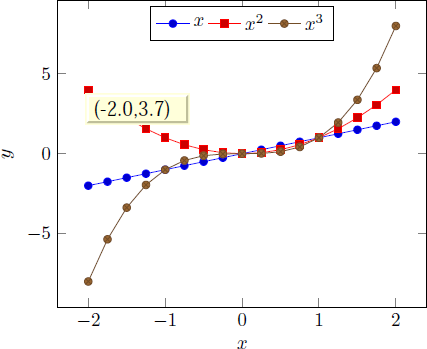
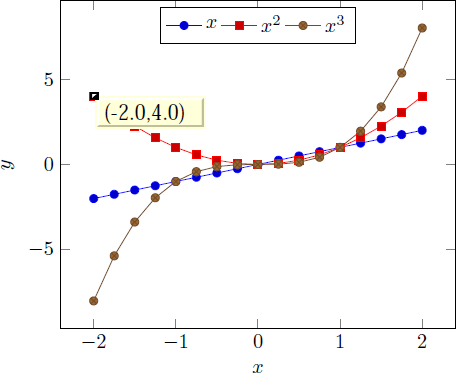
Documented the snap--to--nearest features.

diff --git a/doc/latex/pgfplots/pgfplots.libs.tex b/doc/latex/pgfplots/pgfplots.libs.tex
@@ -11,7 +11,7 @@ This section describes some libraries which come with \PGFPlots, but they are mo
 
 \subsection{Clickable Plots}
 \begin{pgfplotslibrary}{clickable}
-	A library which generates small popups whenever one clicks into a plot. The popup displays the coordinate under the mouse pointer. Furthermore, the library allows to display slopes if one holds the mouse pressed and drags it to another point in the plot.
+	A library which generates small popups whenever one clicks into a plot. The popup displays the coordinate under the mouse pointer, supporting the optional snap--to--nearest |clickable coords| feature with customizable displayed information. Furthermore, the library allows to display slopes if one holds the mouse pressed and drags it to another point in the plot.
 
 
 	It is completely sufficient to write 
@@ -50,9 +50,149 @@ This section describes some libraries which come with \PGFPlots, but they are mo
 	\paragraph{Attention:} For this document, the |clickable| library has been deactivated. You may find a different version on \url{http://sourceforge.net/projects/pgfplots}.
 	\fi
 
-	A click places an annotation at the coordinate under the mouse pointer, a snap--to--nearest feature is not available (yet?).
+\begin{pgfplotskey}{clickable coords=\marg{displayed text}}
+	Activates a snap--to--nearest feature when clicking onto plot coordinates. The \meta{displayed text} is the coordinate's $x$ and $y$ value by default (i.e.\ you write just |clickable coords| without an equal sign).
+{
+	% allow to typeset the example. I couldn't get the \catcodes
+	% correctly...
+	\pgfplotstableset{
+		/codeexample/newline=\noexpand\\,
+		row sep=\\,
+	}%
+\begin{codeexample}[]
+\begin{tikzpicture}
+	\begin{loglogaxis}[clickable coords={Level \thisrow{level} (q=\thisrow{q})}]
+	\addplot table[x=dof,y=error] {
+level  dof     error           q      
+1      4       2.50000000e-01  48        
+2      16      6.25000000e-02  25        
+3      64      1.56250000e-02  41        
+4      256     3.90625000e-03  8         
+5      1024    9.76562500e-04  22        
+6      4096    2.44140625e-04  46        
+7      16384   6.10351562e-05  40        
+8      65536   1.52587891e-05  3
+9      262144  3.81469727e-06  1
+10     1048576 9.53674316e-07  9
+	};
+		
+	\end{loglogaxis}
+\end{tikzpicture}
+\end{codeexample}
+	\noindent Now, clicking onto a data point yields `Level 7 (q=40)' 
+	whereas clicking besides a data point results in the click coordinates as before,
+	
+	\noindent\hbox to \linewidth{\hfill
+	\includegraphics[scale=0.4]{figures/pgfplotsclickable-log-snap0}\hfill
+	\includegraphics[scale=0.4]{figures/pgfplotsclickable-log-snap2}\hfill
+	\includegraphics[scale=0.4]{figures/pgfplotsclickable-log-snap1}.\hfill
+	}%
 
-	\paragraph{Requirements:}
+	Note that logarithmic slopes work as before.
+	
+	If you want the $(x,y)$ values to be displayed, use the special placeholder string `|(xy)|' inside of \meta{displayed text}. As an example, we consider again the |scatter/classes| example of page~\pageref{pgfplots:scatterclasses}:
+
+\begin{codeexample}[]
+\begin{tikzpicture}
+	\begin{axis}[%
+	clickable coords={(xy): \thisrow{label}},%
+	scatter/classes={%
+		a={mark=square*,blue},%
+		b={mark=triangle*,red},%
+		c={mark=o,draw=black}}]
+	\addplot[scatter,only marks,scatter src=explicit symbolic] table[meta=label] {
+x     y      label
+0.1   0.15   a 
+0.45  0.27   c 
+0.02  0.17   a 
+0.06  0.1    a 
+0.9   0.5    b 
+0.5   0.3    c 
+0.85  0.52   b 
+0.12  0.05   a 
+0.73  0.45   b 
+0.53  0.25   c 
+0.76  0.5    b 
+0.55  0.32   c
+	};
+	\end{axis}
+\end{tikzpicture}
+\end{codeexample}
+}
+	\noindent Here, we find popups like
+
+	\noindent\hbox to \linewidth{\hfill
+	\includegraphics[scale=0.4]{figures/pgfplotsclickable-scatter1.png}\hfill
+	\includegraphics[scale=0.4]{figures/pgfplotsclickable-scatter2.png}\hfill
+	\includegraphics[scale=0.4]{figures/pgfplotsclickable-scatter0.png}.\hfill
+	}%
+
+	The \meta{displayed text} is a simple, unformatted string displayed with \emph{javascript}. It should not contain \TeX\ commands, especially no math mode (the `|(xy)|' replacement text is formatted with |sprintf|, see below). Consider |clickable coords code| in case you'd like to preprocess data before displaying it.
+
+	Consider using |annot/snap dist=6| to increase the snap--to--nearest distance.
+
+\end{pgfplotskey}
+\begin{pgfplotskey}{clickable coords code=\marg{\TeX\ code which defines {\normalfont\ttfamily\textbackslash pgfplotsretval}}}
+	A variant of |clickable coords| which allows to prepare the displayed information before it is handed over to javascript.
+
+	The value should be \TeX\ code which defines |\pgfplotsretval| somehow. The result is used as simple, unformatted string which is associated to coordinates.
+
+	Consider using 
+	
+	\hspace{2em}|\pgfmathprintnumberto[verbatim]|\marg{number}|\pgfmathresult|
+	
+	\hspace{2em}|\edef\pgfplotsretval{Number=\pgfmathresult}|
+	
+	to provide number printing. The |\pgfmathprintnumberto[verbatim]| doesn't use math mode to format a number, and it writes its result into |\pgfmathresult|. The |\edef| means ``expanded definition'' and has the effect of expanding all macros to determine the value, in our case ``Number \meta{the value}''. The following example uses it twice to pretty--print the data:
+{
+	% allow to typeset the example. I couldn't get the \catcodes
+	% correctly...
+	\pgfplotstableset{
+		/codeexample/newline=\noexpand\\,
+		row sep=\\,
+	}%
+\begin{codeexample}[]
+\begin{tikzpicture}
+\begin{loglogaxis}[clickable coords code={%
+	\pgfmathprintnumberto[verbatim,precision=1]%
+		{\thisrow{error}}%
+		\pgfmathresult%
+	\edef\pgfplotsretval{error \pgfmathresult}%
+	% now, second part:
+	\pgfmathprintnumberto[verbatim,frac]%
+		{\thisrow{frac}}%
+		\pgfmathresult%
+	\edef\pgfplotsretval{\pgfplotsretval, % <- append
+		R=\pgfmathresult}%
+}]%
+\addplot table[x=dof,y=error] {
+level  dof     error           frac      
+1      4       2.50000000e-01  0.5        
+2      16      6.25000000e-02  0.75      
+3      64      1.56250000e-02  0.1        
+4      256     3.90625000e-03  0.2         
+5      1024    9.76562500e-04  0.5        
+6      4096    2.44140625e-04  0.8        
+7      16384   6.10351562e-05  0.125        
+8      65536   1.52587891e-05  0.725
+9      262144  3.81469727e-06  0.625
+10     1048576 9.53674316e-07  1
+};
+	
+\end{loglogaxis}
+\end{tikzpicture}
+\end{codeexample}
+	\noindent resulting in
+
+	\noindent\hbox to \linewidth{\hfill
+	\includegraphics[scale=0.4]{figures/pgfplotsclickable-logcode-snap0.png}\hfill
+	\includegraphics[scale=0.4]{figures/pgfplotsclickable-logcode-snap1.png}.\hfill
+	}%
+}
+	
+\end{pgfplotskey}
+
+	\paragraph{Requirements for the library:}
 	\begin{itemize}
 		\item The library relies on the \LaTeX\ packages |insdljs| (``Insert document level Javascript'') and |eforms| which are both part of the freely available |AcroTeX| education bundle~\cite{acrotex}\footnote{These packages rely on \LaTeX, so the library is only available for \LaTeX, not for plain \TeX\ or Con\TeX t.}. The |insdljs| package creates a temporary file with extension |.djs|.
 		

diff --git a/doc/latex/pgfplots/figures/pgfplotsclickable.tex b/doc/latex/pgfplots/figures/pgfplotsclickable.tex
@@ -5,11 +5,15 @@
 \usepgfplotslibrary{clickable}
 
 \begin{document}
+\parindent=0pt
+\parskip=30pt
+
 \begin{tikzpicture}
 	\begin{axis}[xlabel=$x$,ylabel=$y$,
 		domain=-2:2,
 		samples=17,
-		legend style={at={(0.5,0.98)},anchor=north,legend columns=-1}
+		legend style={at={(0.5,0.98)},anchor=north,legend columns=-1},
+		clickable coords,
 	]
 		\addplot {x};
 		\addplot {x^2};
@@ -23,12 +27,99 @@
 		xlabel=$x$,ylabel=$f(x)$,
 		samples=10,
 		domain=0:6,
-		legend style={at={(0.5,0.98)},anchor=north,legend columns=-1}
+		legend style={at={(0.5,0.98)},anchor=north,legend columns=-1},
+		clickable coords,
 	]
 		\addplot {exp(x)};
 		\addplot {10^x};
 		\legend{$\exp(x)$,$10^x$}
 	\end{semilogyaxis}
 \end{tikzpicture}
+
+\begin{tikzpicture}
+	\begin{axis}[xlabel=$x$,ylabel=$y$,
+		xmin=0,xmax=1e3,
+		ymin=0,ymax=1e3,
+	]
+	\end{axis}
+\end{tikzpicture}
+
+
+\begin{tikzpicture}
+	\begin{loglogaxis}[clickable coords={Level \thisrow{level} (q=\thisrow{q})}]
+	\addplot table[x=dof,y=error] {
+level  dof     error           q      
+1      4       2.50000000e-01  48        
+2      16      6.25000000e-02  25        
+3      64      1.56250000e-02  41        
+4      256     3.90625000e-03  8         
+5      1024    9.76562500e-04  22        
+6      4096    2.44140625e-04  46        
+7      16384   6.10351562e-05  40        
+8      65536   1.52587891e-05  3
+9      262144  3.81469727e-06  1
+10     1048576 9.53674316e-07  9
+	};
+		
+	\end{loglogaxis}
+\end{tikzpicture}
+
+\begin{tikzpicture}
+	\begin{axis}[
+	clickable coords={(xy): \thisrow{label}},
+	scatter/classes={
+		a={mark=square*,blue},%
+		b={mark=triangle*,red},%
+		c={mark=o,draw=black}},
+	]
+
+	\addplot[scatter,only marks,
+		scatter src=explicit symbolic]
+	table[meta=label] {
+x     y      label
+0.1   0.15   a 
+0.45  0.27   c 
+0.02  0.17   a 
+0.06  0.1    a 
+0.9   0.5    b 
+0.5   0.3    c 
+0.85  0.52   b 
+0.12  0.05   a 
+0.73  0.45   b 
+0.53  0.25   c 
+0.76  0.5    b 
+0.55  0.32   c
+	};
+		
+	\end{axis}
+\end{tikzpicture}
+
+
+
+\begin{tikzpicture}
+	\begin{loglogaxis}[clickable coords code={%
+		\pgfmathprintnumberto[verbatim,precision=1]{\thisrow{error}}\pgfmathresult%
+		\edef\pgfplotsretval{log error \pgfmathresult}%
+		\pgfmathprintnumberto[verbatim,frac]{\thisrow{frac}}\pgfmathresult%
+		\edef\pgfplotsretval{\pgfplotsretval, R=\pgfmathresult}%
+	}]%
+	\addplot table[x=dof,y=error] {
+level  dof     error           frac      
+1      4       2.50000000e-01  0.5        
+2      16      6.25000000e-02  0.75      
+3      64      1.56250000e-02  0.1        
+4      256     3.90625000e-03  0.2         
+5      1024    9.76562500e-04  0.5        
+6      4096    2.44140625e-04  0.8        
+7      16384   6.10351562e-05  0.125        
+8      65536   1.52587891e-05  0.725
+9      262144  3.81469727e-06  0.625
+10     1048576 9.53674316e-07  1
+	};
+		
+	\end{loglogaxis}
+\end{tikzpicture}
+
+
 \end{document}
 

diff --git a/tex/latex/pgfplots/libs/tikzlibrarypgfplots.clickable.code.tex b/tex/latex/pgfplots/libs/tikzlibrarypgfplots.clickable.code.tex
@@ -56,6 +56,7 @@
 	clickable coords/.style={
 		clickable coords code={\def\pgfplotsretval{#1}},
 	},
+	clickable coords/.default={(xy)},
 	annot/js fillColor/.initial={["RGB",1,1,.855]},
 	annot/point format/.initial={(\%.1f,\%.1f)},
 	annot/slope format/.initial={\%.1f*x \%+.1f},
